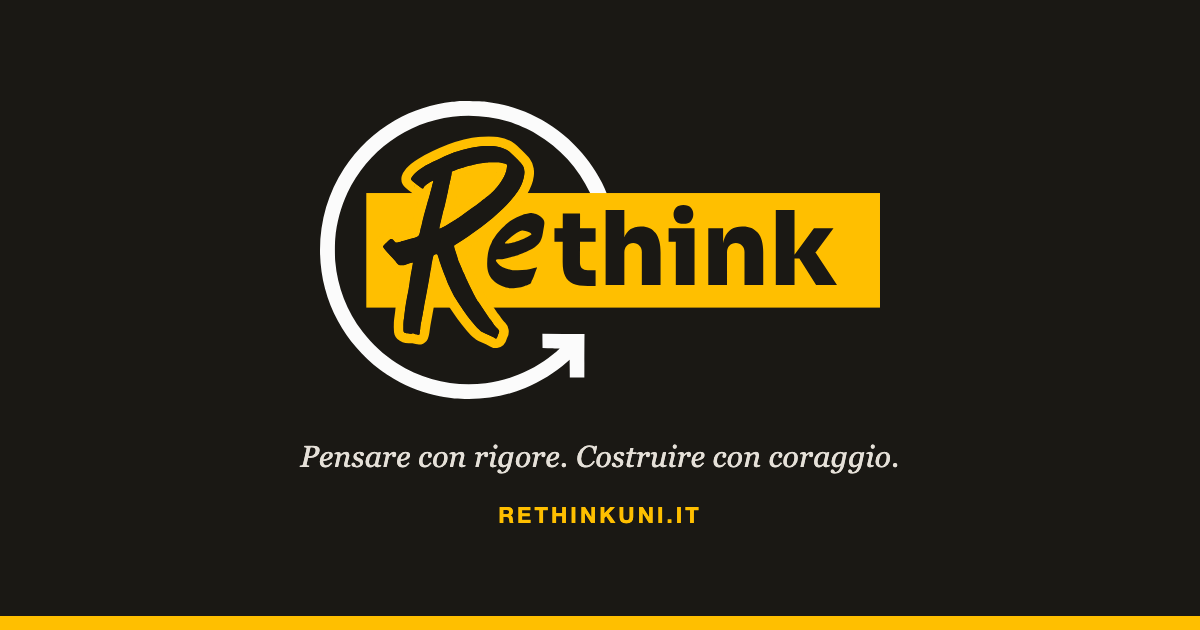
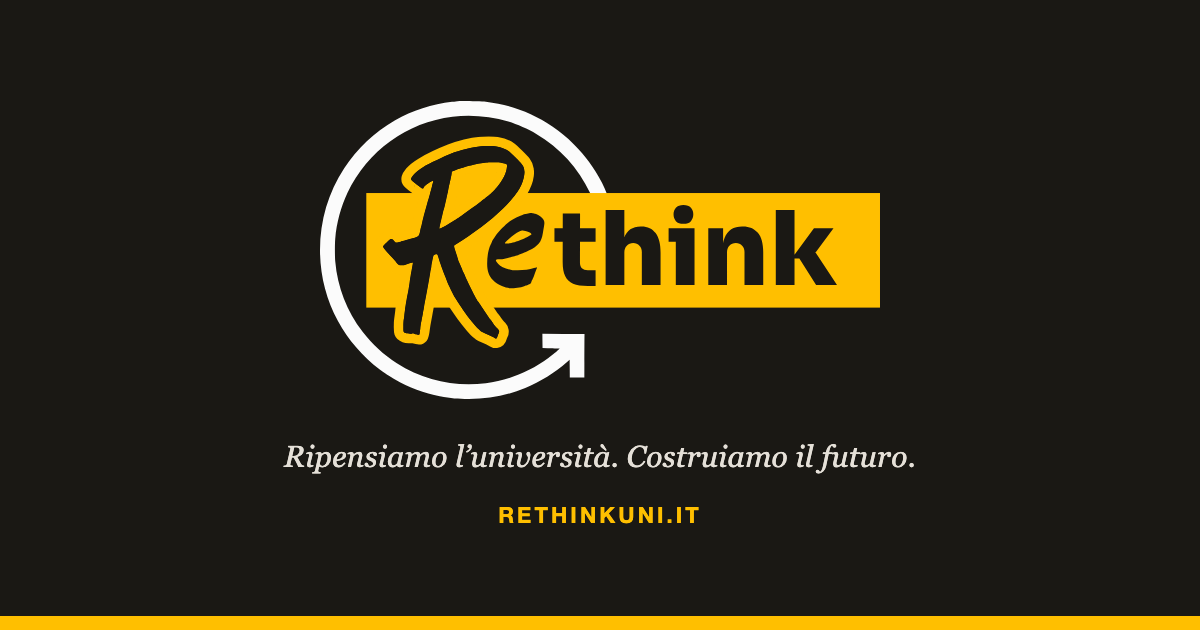
fix: nuovo claim nelle anteprime di condivisione e nel footer
Titolo del sito, og:description, immagine di anteprima (rigenerata da
design/og-card.html) e footer usavano ancora il vecchio motto. Ora
riportano il titolo del manifesto, come la home.

Changed region(s): [[0.2158, 0.6937, 0.7708, 0.754]]

diff --git a/src/app/layout.tsx b/src/app/layout.tsx
@@ -19,7 +19,7 @@ const playfair = Playfair_Display({
 });
 
 export const metadata: Metadata = {
-  title: "Rethink – Pensare con rigore. Costruire con coraggio.",
+  title: "Rethink – Ripensiamo l’università. Costruiamo il futuro.",
   description:
     "Rethink è un'associazione apartitica di studenti e ricercatori che promuove il pensiero critico, il merito e l'innovazione nelle università italiane.",
   referrer: "strict-origin-when-cross-origin",
@@ -37,7 +37,7 @@ export const metadata: Metadata = {
   metadataBase: new URL("https://rethinkuni.it"),
   openGraph: {
     title: "Rethink",
-    description: "Pensare con rigore. Costruire con coraggio.",
+    description: "Ripensiamo l’università. Costruiamo il futuro.",
     type: "website",
     locale: "it_IT",
     siteName: "Rethink",

diff --git a/src/components/Footer.tsx b/src/components/Footer.tsx
@@ -17,7 +17,7 @@ export default function Footer() {
           />
           <p className="text-sm leading-relaxed">
             Associazione apartitica di studenti e ricercatori.<br />
-            <em className="text-[#FFBF00]">Pensare con rigore. Costruire con coraggio.</em>
+            <em className="text-[#FFBF00]">Ripensiamo l’università. Costruiamo il futuro.</em>
           </p>
         </div>
 

diff --git a/design/og-card.html b/design/og-card.html
@@ -20,7 +20,7 @@
 </style></head>
 <body>
   <img src="logo-neg.svg" alt="">
-  <p>Pensare con rigore. Costruire con coraggio.</p>
+  <p>Ripensiamo l’università. Costruiamo il futuro.</p>
   <div class="dom">rethinkuni.it</div>
   <div class="banda"></div>
 </body></html>
